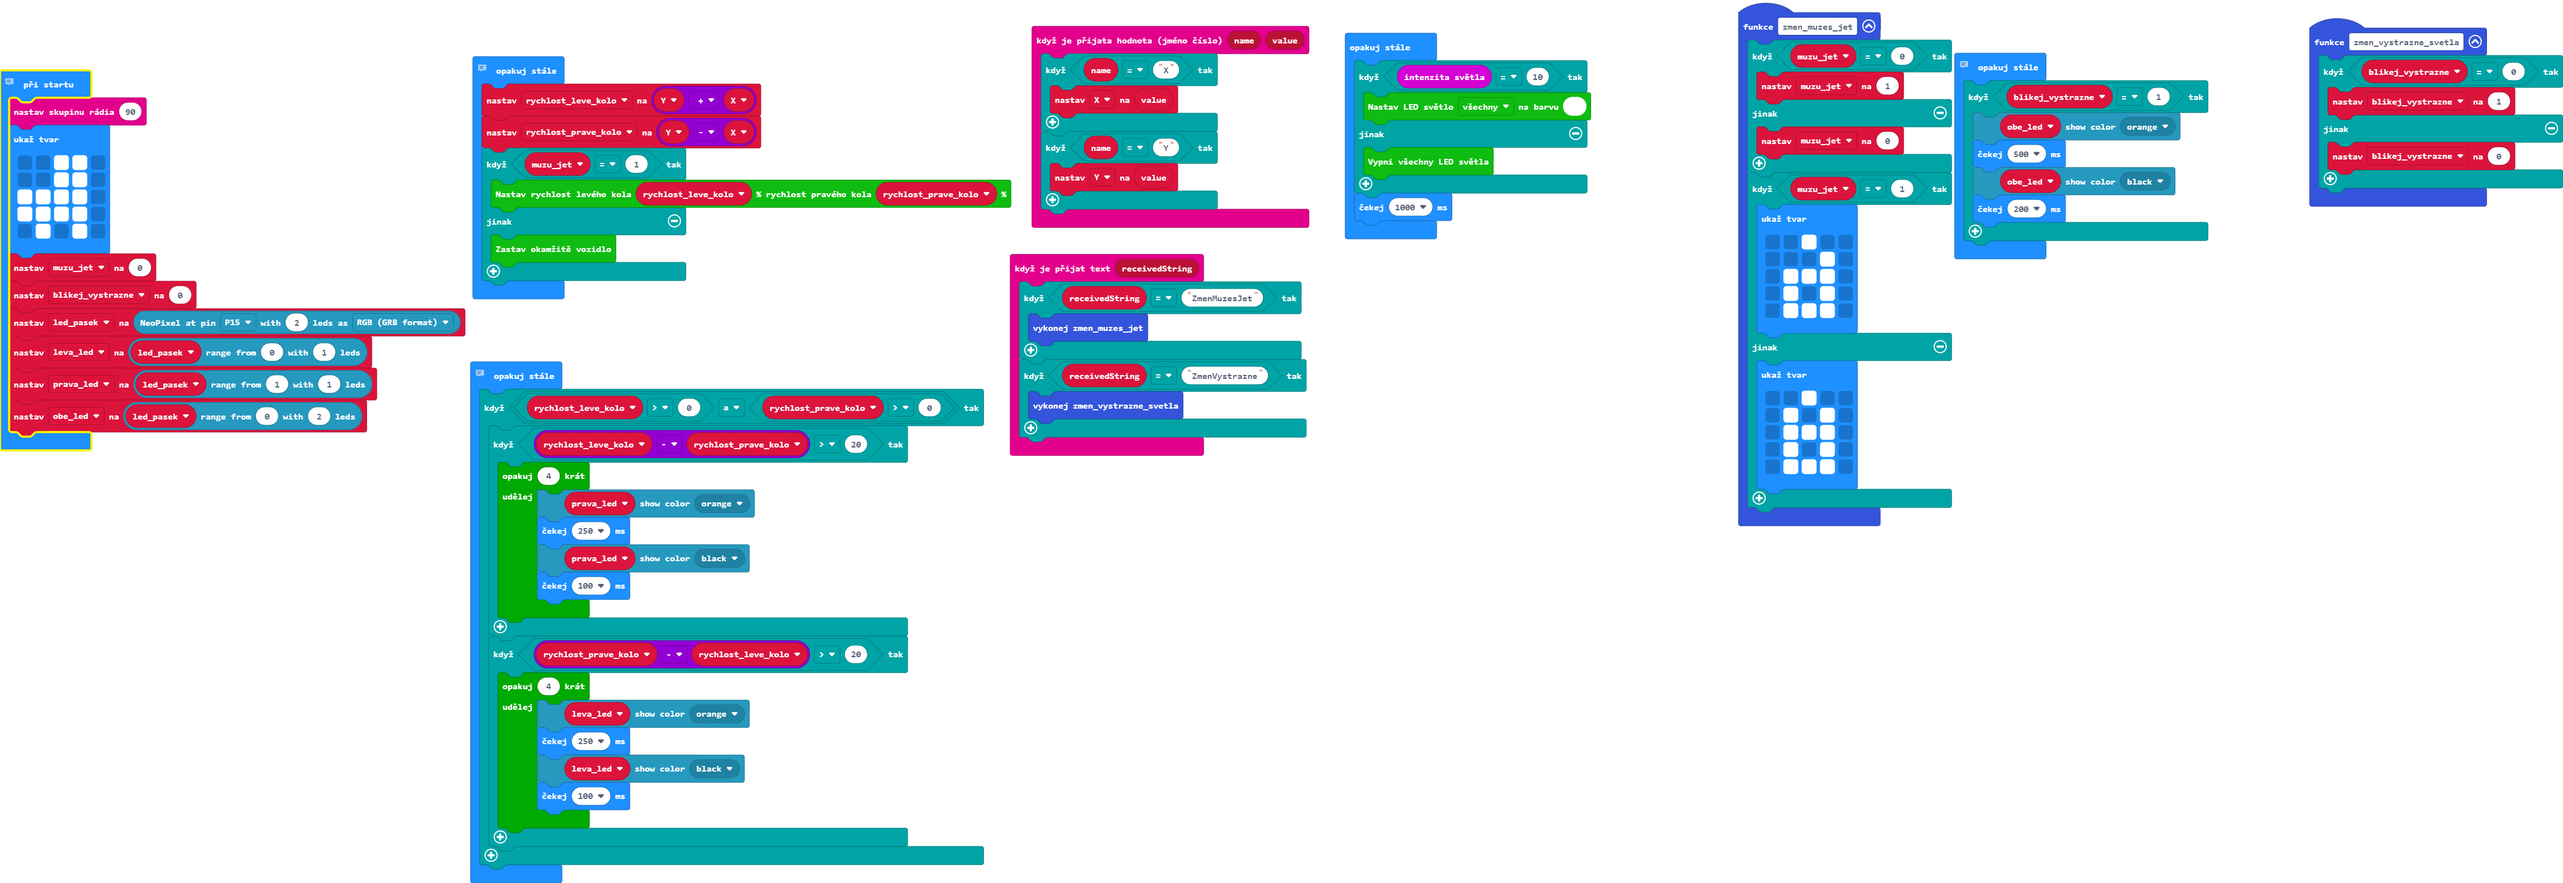
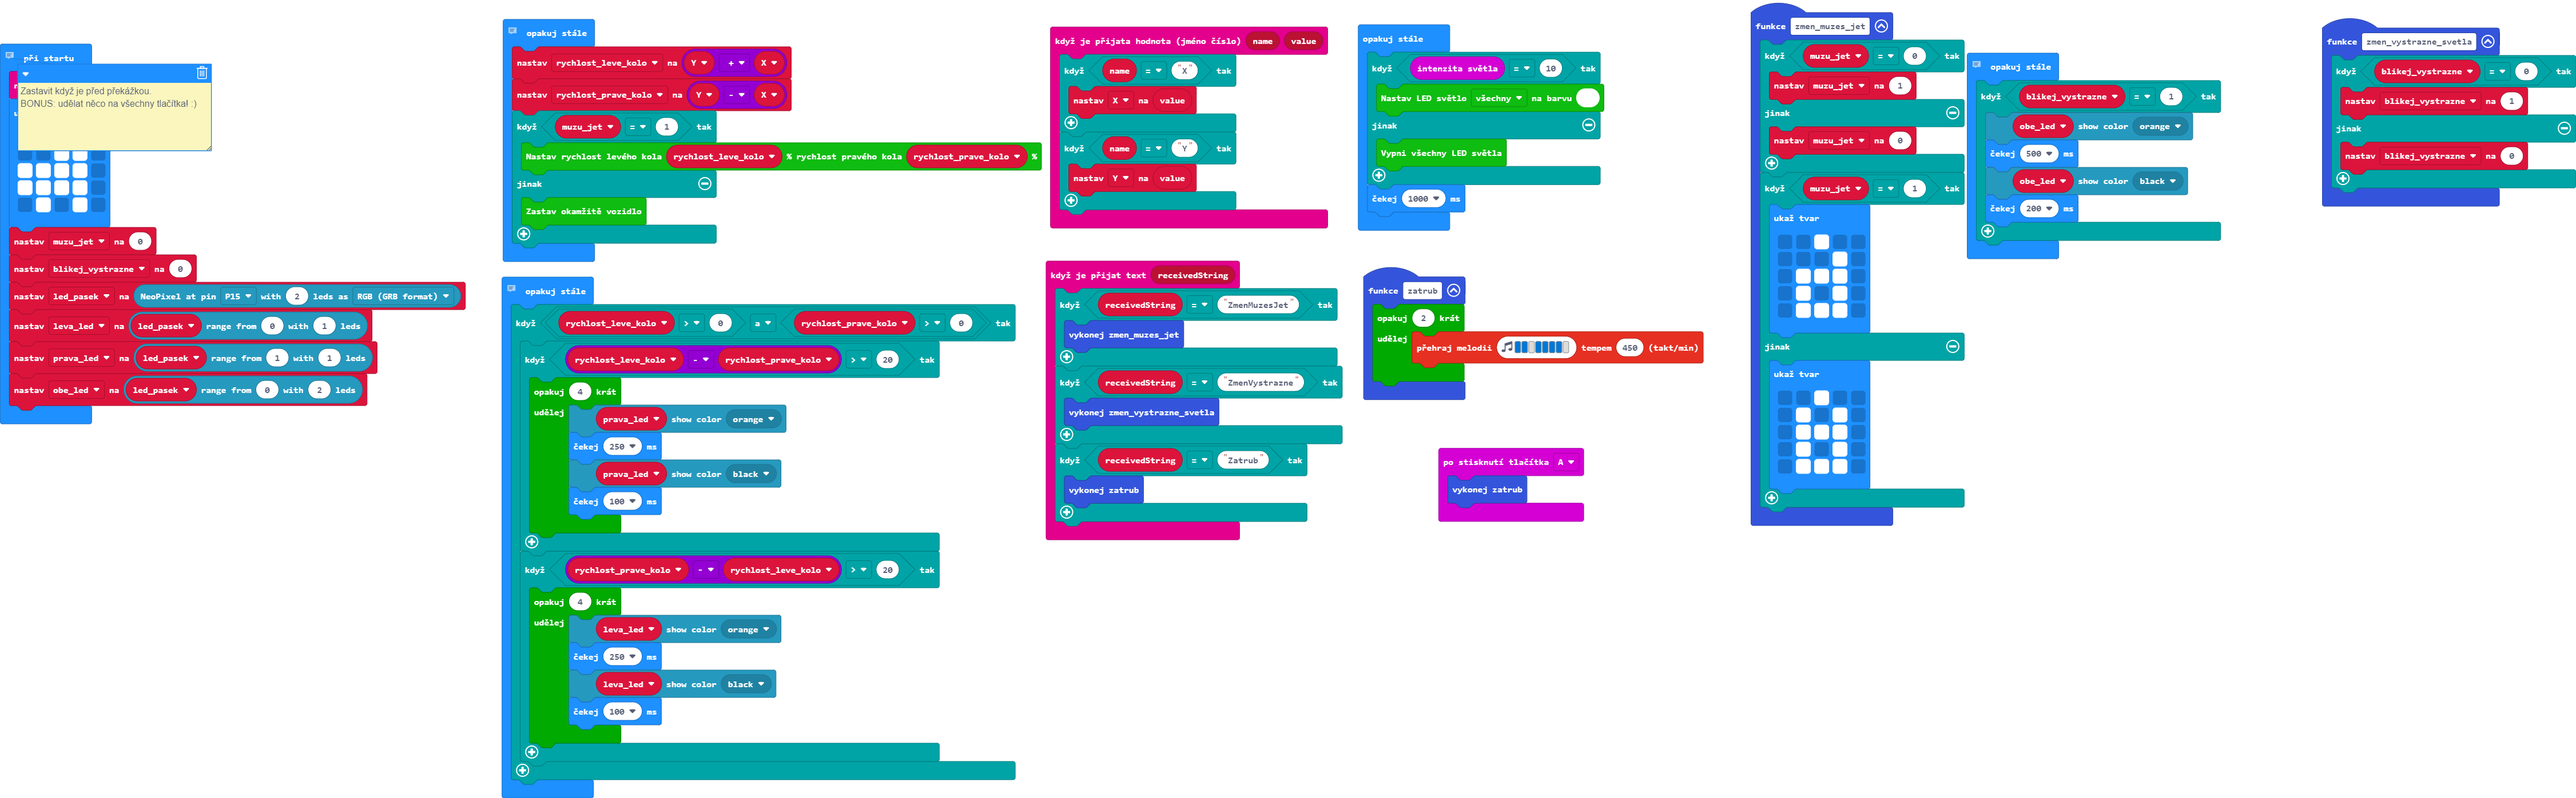
Aktualizovat main.blocks, main.ts

Changed region(s): [[0.0, 0.0, 0.8744, 1.0], [0.9056, 0.0308, 1.0, 0.277]]

diff --git a/main.ts b/main.ts
@@ -1,9 +1,20 @@
+function zatrub () {
+    for (let index = 0; index < 2; index++) {
+        music.playMelody("E E - E E E E - ", 450)
+    }
+}
+input.onButtonPressed(Button.A, function () {
+    zatrub()
+})
 radio.onReceivedString(function (receivedString) {
     if (receivedString == "ZmenMuzesJet") {
         zmen_muzes_jet()
     }
     if (receivedString == "ZmenVystrazne") {
         zmen_vystrazne_svetla()
+    }
+    if (receivedString == "Zatrub") {
+        zatrub()
     }
 })
 function zmen_vystrazne_svetla () {
@@ -46,7 +57,6 @@ function zmen_muzes_jet () {
     }
 }
 // Zastavit když je před překážkou.
-// Zatrub na tlačítko C
 // BONUS: udělat něco na všechny tlačítka! :)
 let rychlost_prave_kolo = 0
 let rychlost_leve_kolo = 0
